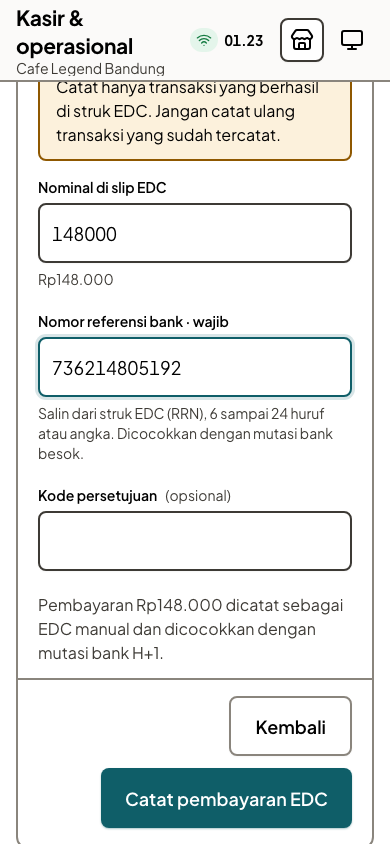
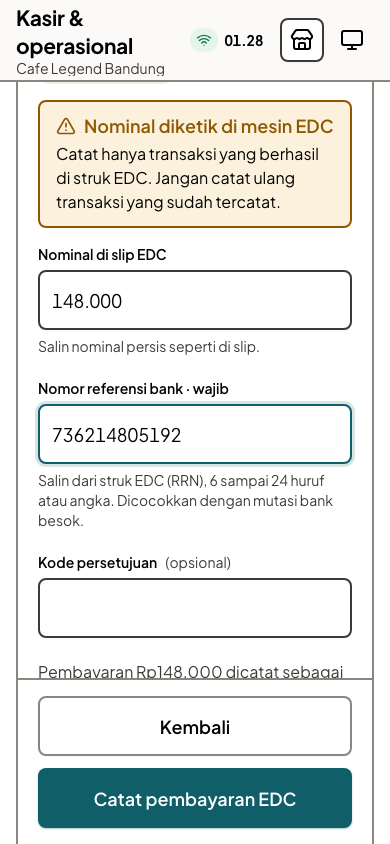
fix(pos-kasir): review C3b, slip amount must match the bill, RRN letters, https payment page, i18n and 390 footer (legend-osqou.6, legend-wasr7.17)

diff --git a/apps/web/src/features/ws04-pos-kasir/components/payment/edc-standalone.tsx b/apps/web/src/features/ws04-pos-kasir/components/payment/edc-standalone.tsx
@@ -12,6 +12,10 @@ import { EdcLayout, useEdcErrorText } from "./edc-side";
 import { edcSlipRefProblem } from "./payment-helpers";
 import { INTENT_STORAGE_UNAVAILABLE } from "../../payment-intent-store";
 
+/** "148.000": the slip amount as the slip prints it. */
+const formatThousands = (value: number) =>
+  new Intl.NumberFormat("id-ID").format(value);
+
 /** Same minimum the record endpoint enforces (6-24, never a card number). */
 const BANK_REF_MIN_LENGTH = 6;
 
@@ -42,8 +46,19 @@ export function EdcStandalone({
   const [slipAmount, setSlipAmount] = useState("");
   const [approvalCode, setApprovalCode] = useState("");
   const [refTouched, setRefTouched] = useState(false);
+  const [amountTouched, setAmountTouched] = useState(false);
 
   const amountIdr = Number(slipAmount);
+  // Strictest rule (CTO, review C3b P3): a slip that is not the remaining bill
+  // is never sent, so a typo cannot lock the bill as an unknown payment.
+  const mismatch = amountIdr > 0 && amountIdr !== bill.remainingIdr;
+  const amountProblem = mismatch
+    ? t("posKasirEdc.standalone.amountMismatch", {
+        remaining: formatRupiah(bill.remainingIdr),
+      })
+    : amountTouched && amountIdr <= 0
+      ? t("posKasirEdc.standalone.amountRequired")
+      : undefined;
   // The slip cannot change while it is sent, nor after a note is written for it.
   const slipLocked =
     record.isPending ||
@@ -61,12 +76,14 @@ export function EdcStandalone({
   const canSubmit =
     terminal !== undefined &&
     amountIdr > 0 &&
+    !mismatch &&
     trimmedRef.length >= BANK_REF_MIN_LENGTH &&
     edcSlipRefProblem(bankRef) === undefined &&
     !record.isPending;
 
   function submit() {
     setRefTouched(true);
+    setAmountTouched(true);
     if (!canSubmit || !terminal) return;
     record.reset();
     // A refused record shows below; the session updates itself on success.
@@ -86,7 +103,7 @@ export function EdcStandalone({
       bill={bill}
       headPill={{ tone: "warning", label: t("posKasirEdc.pill.standalone") }}
       sideLabel={t("posKasirEdc.side.proof")}
-      sideAmountIdr={amountIdr > 0 ? amountIdr : bill.remainingIdr}
+      sideAmountIdr={amountIdr > 0 ? amountIdr : null}
       sidePill={
         amountIdr === bill.remainingIdr
           ? {
@@ -124,6 +141,7 @@ export function EdcStandalone({
                 variant="outline"
                 onClick={onBack}
                 disabled={record.isPending}
+                className="w-full sm:w-auto"
               >
                 {t("posKasirEdc.standalone.back")}
               </Button>
@@ -131,6 +149,7 @@ export function EdcStandalone({
                 type="submit"
                 disabled={!canSubmit}
                 loading={record.isPending}
+                className="w-full sm:w-auto"
               >
                 {t(
                   record.isPending
@@ -151,21 +170,19 @@ export function EdcStandalone({
             <div className="grid gap-4 md:grid-cols-2">
               <FormField
                 label={t("posKasirPayment.unresolved.slipAmount")}
-                hint={
-                  amountIdr > 0
-                    ? formatRupiah(amountIdr)
-                    : t("posKasirPayment.unresolved.slipAmountHint")
-                }
+                hint={t("posKasirPayment.unresolved.slipAmountHint")}
+                error={amountProblem}
                 required
               >
                 <Input
                   name="slipAmount"
-                  value={slipAmount}
+                  value={amountIdr > 0 ? formatThousands(amountIdr) : ""}
                   onChange={(event) =>
                     setSlipAmount(
                       event.target.value.replace(/\D/g, "").slice(0, 12),
                     )
                   }
+                  onBlur={() => setAmountTouched(true)}
                   inputMode="numeric"
                   autoComplete="off"
                   className="tabular"
@@ -185,7 +202,8 @@ export function EdcStandalone({
                   onBlur={() => setRefTouched(true)}
                   readOnly={slipLocked}
                   maxLength={24}
-                  inputMode="numeric"
+                  inputMode="text"
+                  autoCapitalize="characters"
                   autoComplete="off"
                   spellCheck={false}
                   className="tabular"
@@ -197,6 +215,8 @@ export function EdcStandalone({
                   value={approvalCode}
                   onChange={(event) => setApprovalCode(event.target.value)}
                   readOnly={slipLocked}
+                  maxLength={12}
+                  autoCapitalize="characters"
                   autoComplete="off"
                   spellCheck={false}
                   className="tabular"
@@ -211,11 +231,13 @@ export function EdcStandalone({
                 {errorText(record.error)}
               </Notice>
             )}
-            <p className="text-base text-muted-foreground">
-              {t("posKasirEdc.standalone.confirm", {
-                amount: formatRupiah(amountIdr),
-              })}
-            </p>
+            {amountIdr > 0 && !mismatch && (
+              <p className="text-base text-muted-foreground">
+                {t("posKasirEdc.standalone.confirm", {
+                  amount: formatRupiah(amountIdr),
+                })}
+              </p>
+            )}
           </div>
         </PosPanel>
       </form>

diff --git a/apps/web/src/features/ws04-pos-kasir/components/payment/ewallet-panel.tsx b/apps/web/src/features/ws04-pos-kasir/components/payment/ewallet-panel.tsx
@@ -15,6 +15,16 @@ import {
   useGatewayAttempt,
 } from "./gateway-parts";
 import { OnlineCodeHold } from "./online-code-parts";
+import { BlockNotice } from "./gateway-parts";
+import { Notice } from "../shared";
+
+function isHttpsUrl(value: string): boolean {
+  try {
+    return new URL(value).protocol === "https:";
+  } catch {
+    return false;
+  }
+}
 import type { PaymentPanelProps } from "./panel-types";
 import { PosPanel, StateBlock } from "../shared";
 
@@ -131,7 +141,9 @@ export function EwalletPanel(props: PaymentPanelProps) {
   if (attempt.status !== "waiting" && attempt.status !== "cancelling")
     return null;
 
-  const page = attempt.ewallet?.paymentUrl;
+  // Only a provider page over https is shown or opened (review C3b P3).
+  const url = attempt.ewallet?.paymentUrl;
+  const page = url && isHttpsUrl(url) ? url : undefined;
   return (
     <OnlineCodeHold
       orderId={orderId}
@@ -143,6 +155,13 @@ export function EwalletPanel(props: PaymentPanelProps) {
       noticeTitle={t("posKasirGateway.common.waitingNoticeTitle")}
       noticeBody={t("posKasirGateway.common.waitingNoticeBody")}
     >
+      {url !== undefined && page === undefined && (
+        <BlockNotice>
+          <Notice tone="warning" title={t("posKasirGateway.code.oneCodeTitle")}>
+            {t("posKasirGateway.ewallet.pageUnsafe")}
+          </Notice>
+        </BlockNotice>
+      )}
       {page && (
         <div className="flex w-full max-w-3xl flex-col items-center gap-3 rounded-container bg-muted p-5 text-center">
           <QrCode
@@ -155,7 +174,14 @@ export function EwalletPanel(props: PaymentPanelProps) {
             {t("posKasirGateway.ewallet.pageHint")}
           </p>
           <Button asChild variant="outline">
-            <a href={page} target="_blank" rel="noopener noreferrer">
+            <a
+              href={page}
+              target="_blank"
+              rel="noopener noreferrer"
+              aria-label={t("posKasirGateway.ewallet.openPageLabel", {
+                wallet,
+              })}
+            >
               {t("posKasirGateway.ewallet.openPage")}
               <ExternalLink aria-hidden="true" />
             </a>

diff --git a/apps/web/src/features/ws04-pos-kasir/components/payment/online-code-parts.tsx b/apps/web/src/features/ws04-pos-kasir/components/payment/online-code-parts.tsx
@@ -26,6 +26,7 @@ import {
   remainingMsOf,
   useNow,
 } from "./gateway-parts";
+import { useEdcErrorText } from "./edc-side";
 import { formatClock } from "./payment-helpers";
 
 /** Q93: a manager may release a code from 30 minutes after it lapsed. */
@@ -110,7 +111,11 @@ export function OnlineCodeHold({
         noticeBody={shown ? noticeBody : t("posKasirGateway.code.oneCodeBody")}
         action={
           canRelease ? (
-            <Button variant="outline" onClick={() => setReleasing(true)}>
+            <Button
+              variant="outline"
+              onClick={() => setReleasing(true)}
+              className="w-full sm:w-auto"
+            >
               {t("posKasirGateway.code.release")}
             </Button>
           ) : (
@@ -118,6 +123,7 @@ export function OnlineCodeHold({
               <Button
                 variant="outline"
                 loading={cancel.isPending}
+                className="w-full sm:w-auto"
                 onClick={() =>
                   cancel.mutate({ orderId, attemptId: attempt.id, method })
                 }
@@ -174,6 +180,7 @@ function ReleaseCodeDialog({
   const t = useT();
   const approvers = useResolveApprovers("void", open);
   const release = useReleaseOnlineCode();
+  const errorText = useEdcErrorText();
   const [pickedId, setPickedId] = useState<string>();
   const [formError, setFormError] = useState<string | null>(null);
   const options = approvers.data ?? [];
@@ -254,7 +261,7 @@ function ReleaseCodeDialog({
       error={
         formError ??
         (release.error
-          ? `${t("posKasirGateway.code.releaseError")}: ${release.error.message}`
+          ? `${t("posKasirGateway.code.releaseError")}: ${errorText(release.error)}`
           : null)
       }
       minReasonLength={4}

diff --git a/apps/web/src/features/ws04-pos-kasir/components/payment/va-panel.tsx b/apps/web/src/features/ws04-pos-kasir/components/payment/va-panel.tsx
@@ -153,7 +153,9 @@ export function VaPanel(props: PaymentPanelProps) {
       title={title}
       statusLabel={t("posKasirGateway.va.statusWaiting")}
       heading={t("posKasirGateway.va.readyHeading")}
-      description={`${attempt.va?.bank ?? ""} · ${t("posKasirGateway.va.readyBody")}`}
+      description={t("posKasirGateway.va.readyBody", {
+        bank: attempt.va?.bank ?? t("posKasirGateway.method.va"),
+      })}
       noticeTitle={t("posKasirGateway.va.noticeTitle")}
       noticeBody={t("posKasirGateway.va.noticeBody")}
     >
@@ -165,7 +167,7 @@ export function VaPanel(props: PaymentPanelProps) {
           <p className="tabular text-2xl font-semibold break-all sm:text-3xl sm:tracking-[0.05em]">
             {attempt.va.number}
           </p>
-          <div className="mt-3 flex flex-wrap items-baseline justify-between gap-3 text-(length:--density-text)">
+          <div className="mt-3 flex flex-col items-center gap-1 text-(length:--density-text) sm:flex-row sm:items-baseline sm:justify-between sm:gap-3">
             <span>{t("posKasirGateway.va.deadline")}</span>
             <strong className="tabular">
               {formatDeadline(attempt.va.deadline, timeZone)}

diff --git a/apps/web/src/features/ws04-pos-kasir/components/payment/edc-side.tsx b/apps/web/src/features/ws04-pos-kasir/components/payment/edc-side.tsx
@@ -62,7 +62,8 @@ export function EdcLayout({
   /** Replaces the heading chip, e.g. the way back to the order. */
   headAction?: ReactNode;
   sideLabel: string;
-  sideAmountIdr: number;
+  /** null: nothing to show yet (the slip amount is not typed). */
+  sideAmountIdr: number | null;
   sidePill?: EdcPill;
   sideTerminal?: EdcSideTerminal;
   sideNote: string;
@@ -107,7 +108,16 @@ export function EdcLayout({
                 <p className="text-sm font-semibold tracking-wide text-muted-foreground uppercase">
                   {sideLabel}
                 </p>
-                <Money amount={sideAmountIdr} size="hero" />
+                {sideAmountIdr === null ? (
+                  <p className="type-money-hero tabular">
+                    <span aria-hidden="true">–</span>
+                    <span className="sr-only">
+                      {t("posKasirEdc.side.notFilled")}
+                    </span>
+                  </p>
+                ) : (
+                  <Money amount={sideAmountIdr} size="hero" />
+                )}
                 {sidePill && (
                   <StatusPill
                     tone={sidePill.tone}

diff --git a/packages/shared/src/i18n/messages/pos-kasir-gateway.ts b/packages/shared/src/i18n/messages/pos-kasir-gateway.ts
@@ -96,7 +96,7 @@ export const posKasirGatewayMessages = {
     statusWaiting: "Menunggu transfer",
     readyHeading: "Nomor VA sudah tersedia",
     readyBody:
-      "Tunjukkan nomor ini ke pelanggan untuk transfer dari aplikasi bank atau ATM.",
+      "{bank} · Tunjukkan nomor ini ke pelanggan untuk transfer dari aplikasi bank atau ATM.",
     numberLabel: "Nomor Virtual Account",
     deadline: "Batas pembayaran",
     noticeTitle: "Belum lunas",
@@ -125,6 +125,9 @@ export const posKasirGatewayMessages = {
     pageHint:
       "QR ini membuka halaman bayar untuk nominal tagihan. Hanya berlaku untuk tagihan ini.",
     openPage: "Buka halaman bayar",
+    openPageLabel: "Buka halaman bayar {wallet} di tab baru",
+    pageUnsafe:
+      "Halaman bayar dari penyedia tidak aman untuk dibuka. Minta pelanggan memakai cara bayar lain, atau batalkan kode ini.",
     expiredHeading: "Permintaan e-wallet kedaluwarsa",
     expiredBody: "Pelanggan belum menyetujui pembayaran.",
     expiredNoticeBody:

diff --git a/packages/shared/src/i18n/messages/pos-kasir-edc.ts b/packages/shared/src/i18n/messages/pos-kasir-edc.ts
@@ -38,6 +38,7 @@ export const posKasirEdcMessages = {
     fromBill: "Dari tagihan POS",
     locked: "Nominal terkunci",
     matchesRemaining: "Sesuai sisa tagihan",
+    notFilled: "Belum diisi",
     paidPill: "Lunas",
     pickTerminal: "Pilih terminal EDC",
     pickTerminalDetail: "Kartu atau QRIS melalui mesin bank",
@@ -175,6 +176,9 @@ export const posKasirEdcMessages = {
     bankRefHint:
       "Salin dari struk EDC (RRN), 6 sampai 24 huruf atau angka. Dicocokkan dengan mutasi bank besok.",
     bankRefRequired: "Isi nomor referensi bank dari struk EDC.",
+    amountRequired: "Isi nominal dari struk EDC, lebih dari Rp0.",
+    amountMismatch:
+      "Nominal slip berbeda dari sisa {remaining}. Cek slip lagi.",
     approval: "Kode persetujuan",
     confirm:
       "Pembayaran {amount} dicatat sebagai EDC manual dan dicocokkan dengan mutasi bank H+1.",

diff --git a/apps/web/src/features/ws04-pos-kasir/components/payment/gateway-parts.tsx b/apps/web/src/features/ws04-pos-kasir/components/payment/gateway-parts.tsx
@@ -383,12 +383,13 @@ export function WaitingPanel({
             variant="outline"
             loading={check.isPending}
             onClick={() => check.mutate({ orderId, attemptId: attempt.id })}
+            className="w-full sm:w-auto"
           >
             {check.isPending
               ? t("posKasirGateway.common.checking")
               : t("posKasirGateway.common.checkStatus")}
           </Button>
-          <Button asChild>
+          <Button asChild className="w-full sm:w-auto">
             <Link to="/pos/customer-display">
               {t("posKasirGateway.common.viewDisplay")}
               <ArrowRight aria-hidden="true" />

diff --git a/apps/web/src/features/ws04-pos-kasir/types.ts b/apps/web/src/features/ws04-pos-kasir/types.ts
@@ -496,7 +496,7 @@ export type EngineAttempt = {
   startedAtMs: number;
   expiresAt?: string;
   va?: { bank: string; number: string; deadline: string };
-  ewallet?: { code: string; label: string };
+  ewallet?: { code: string; label: string; paymentUrl?: string };
   edc?: PaymentAttempt["edc"];
   cardMasked?: string;
   bankRef?: string;
